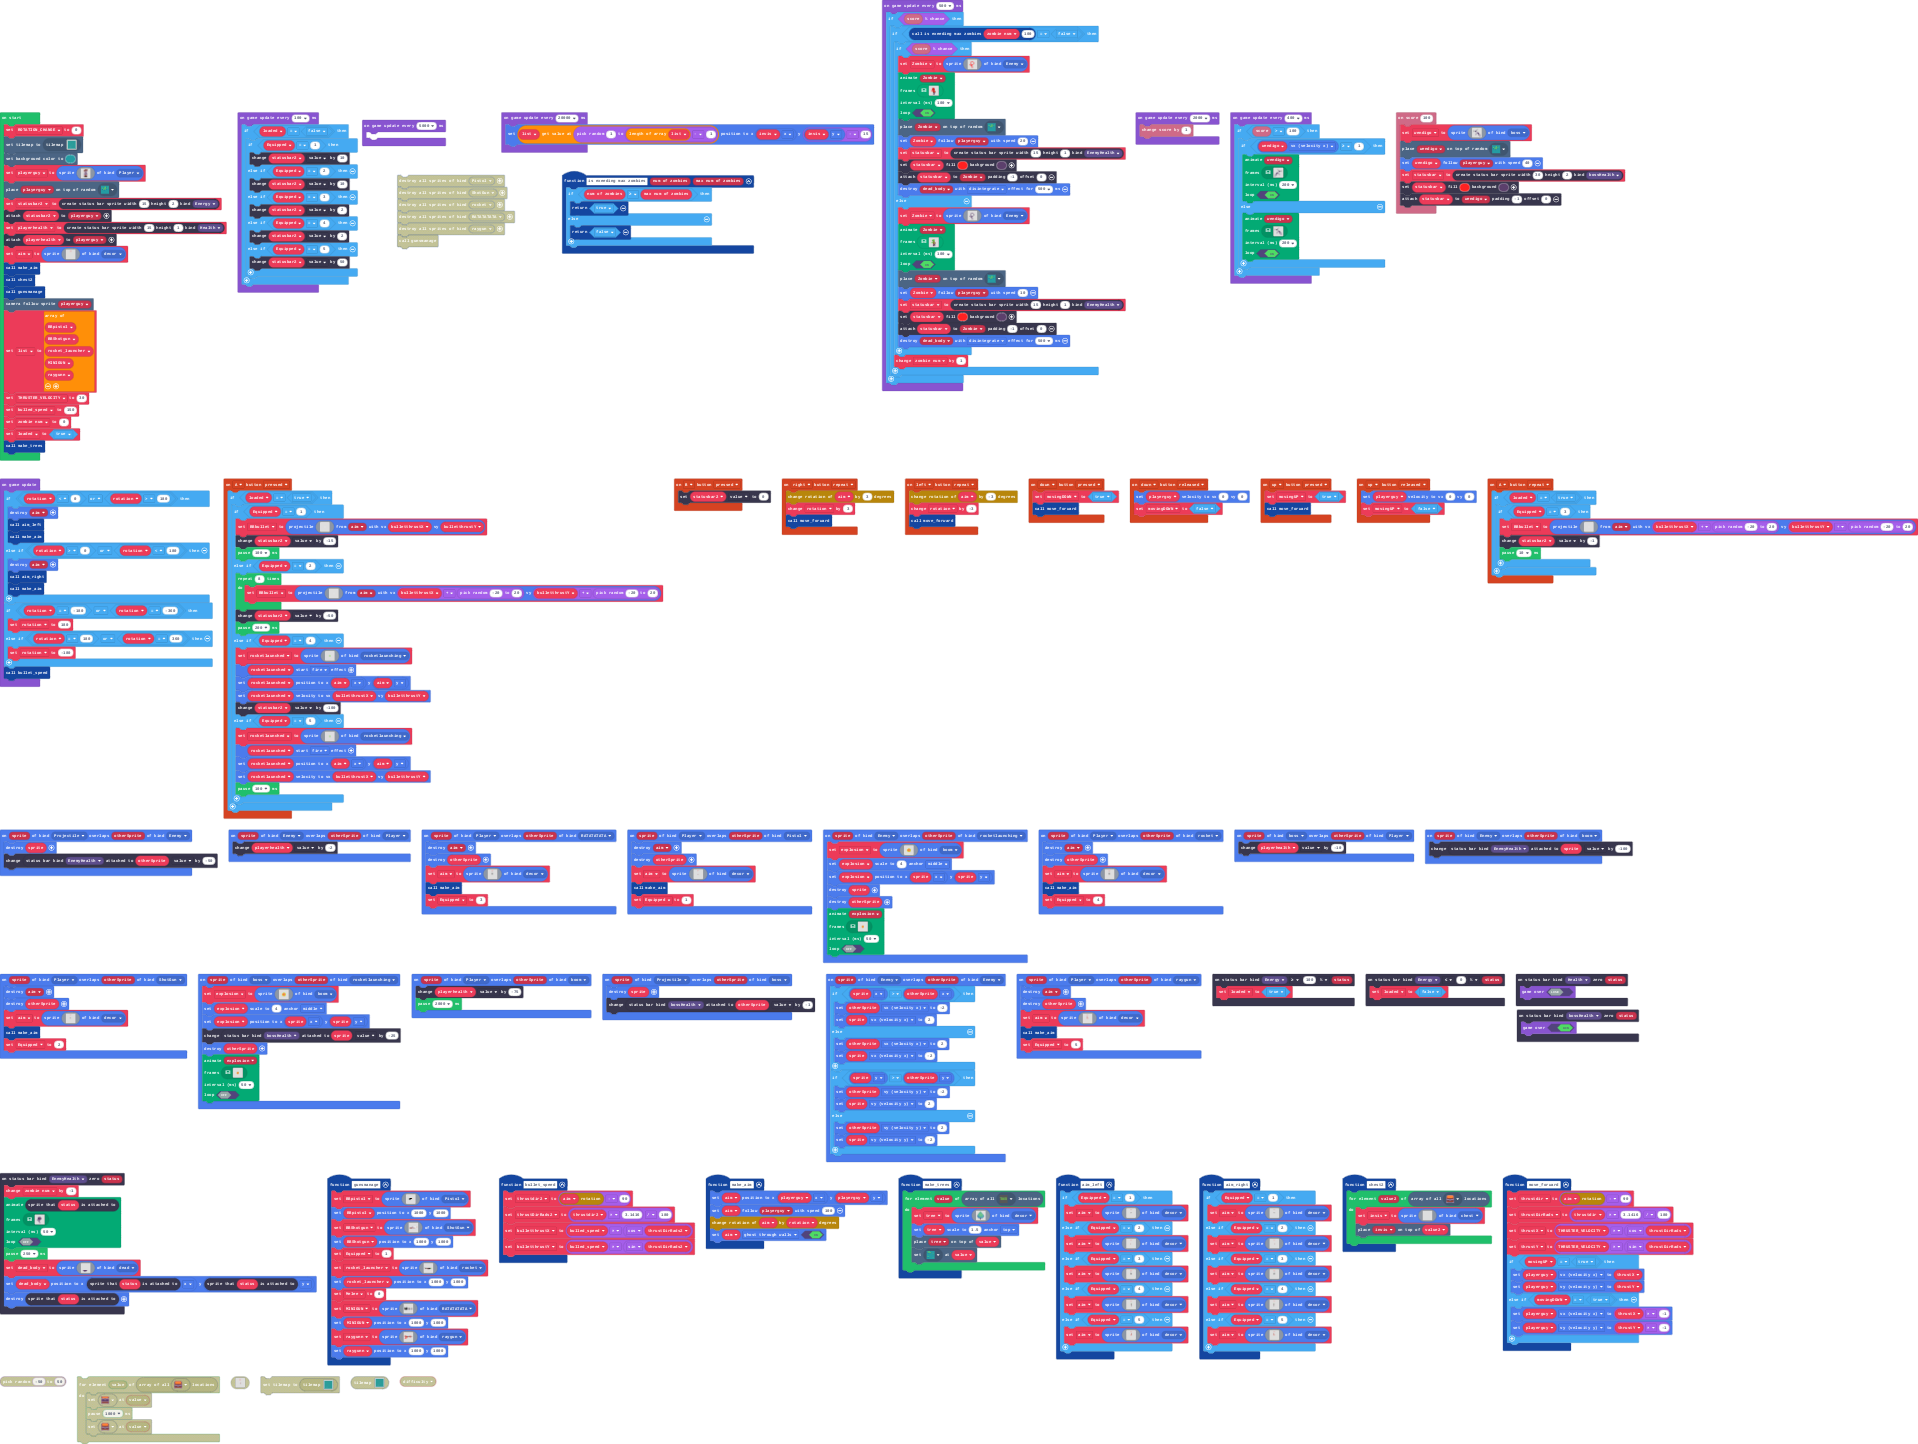
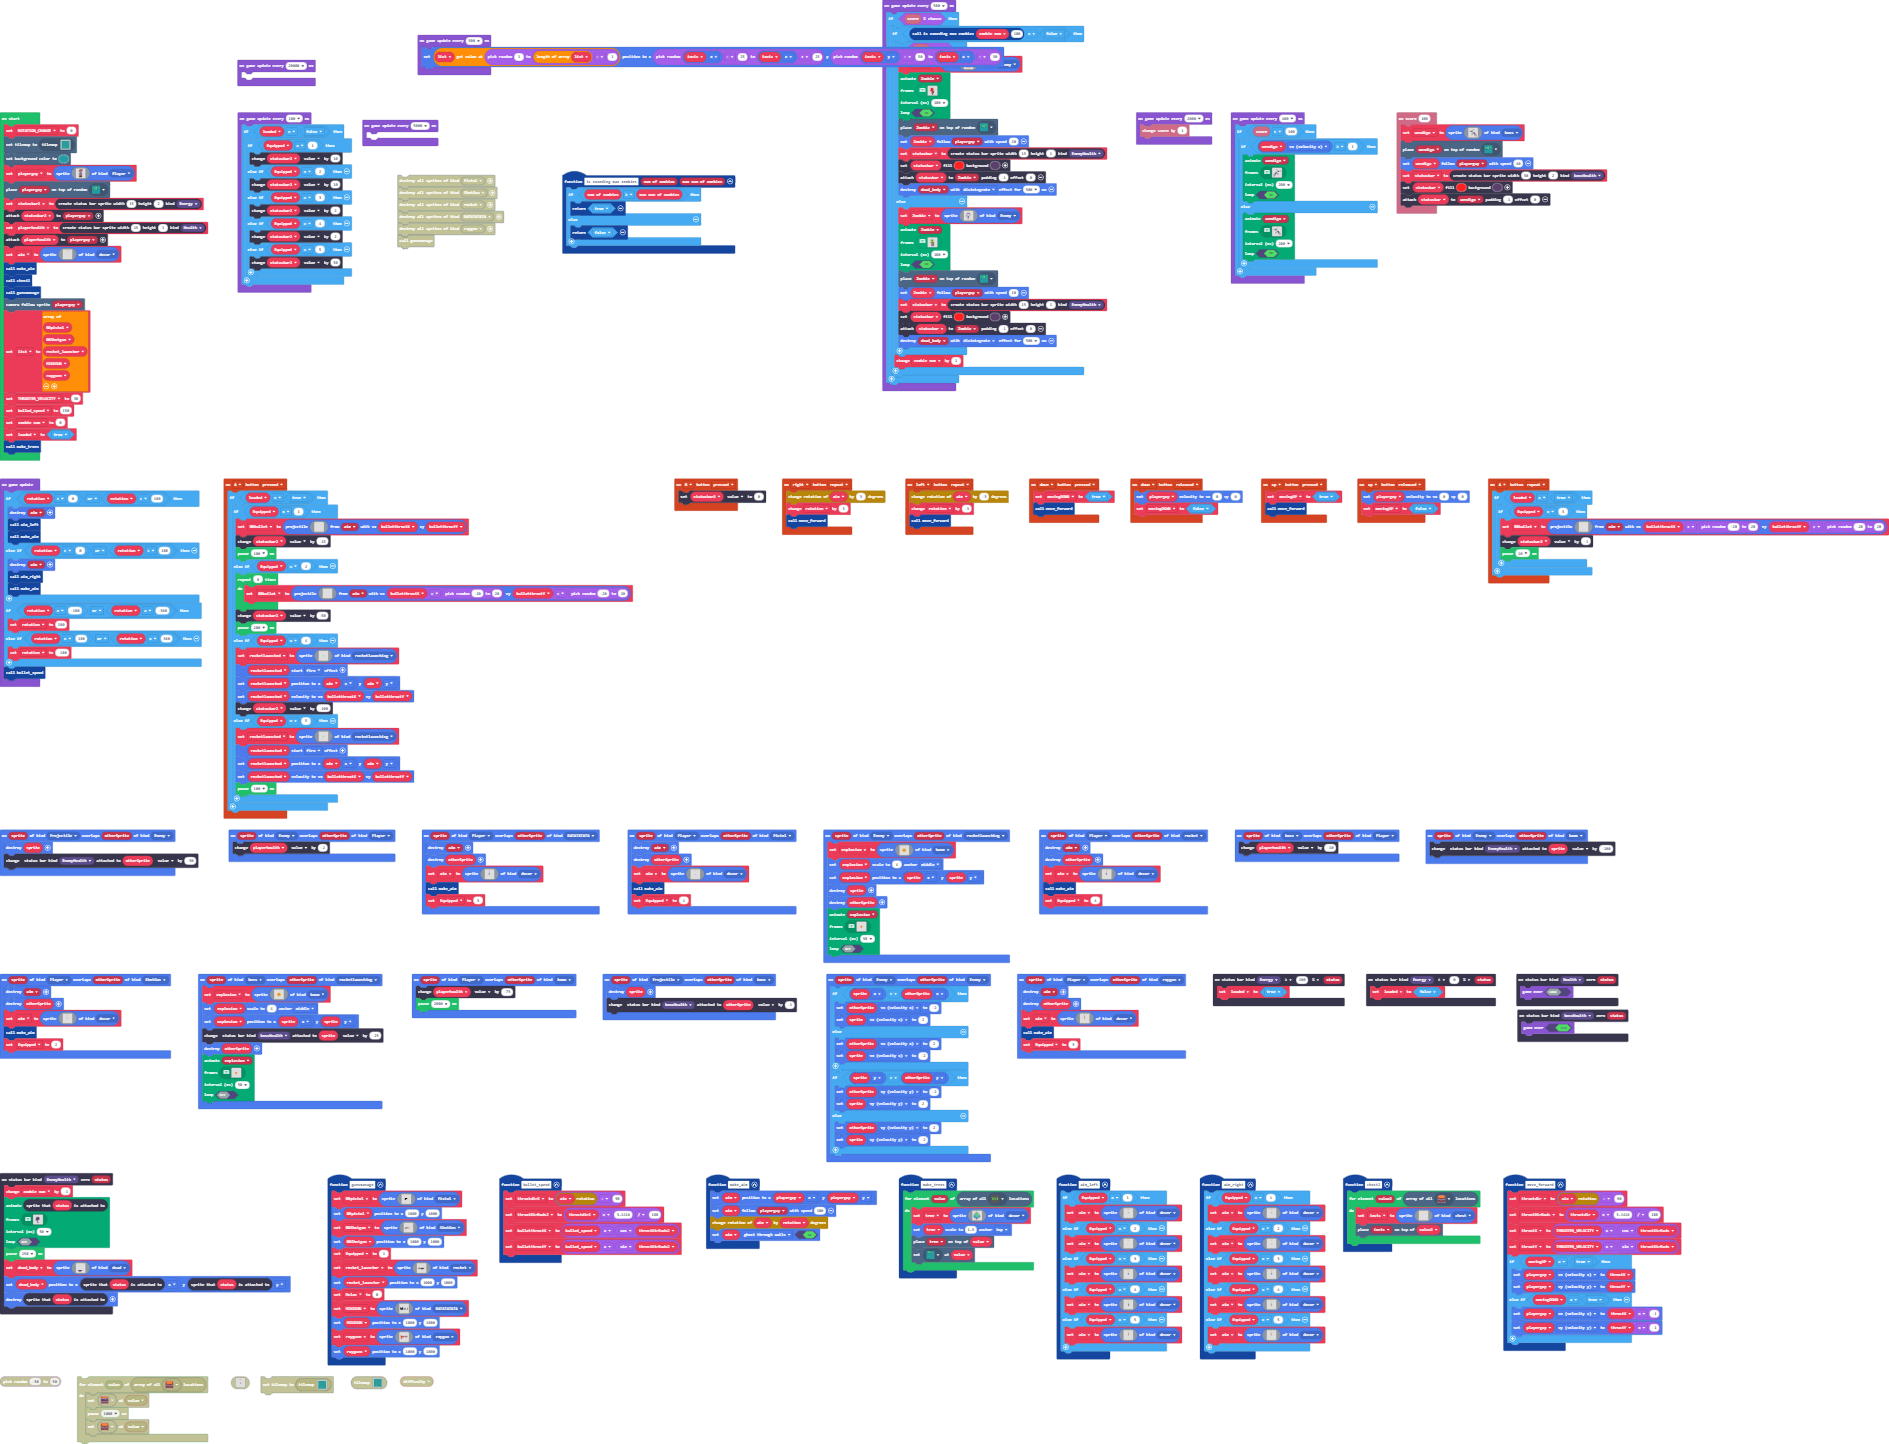
Update main.blocks, main.ts

diff --git a/main.ts b/main.ts
@@ -2629,6 +2629,9 @@ game.onUpdateInterval(500, function () {
         }
     }
 })
+game.onUpdateInterval(500, function () {
+    list[randint(1, list.length - 1)].setPosition(randint(invis.x - 25, invis.x + 25), randint(invis.y - 50, invis.x - 30))
+})
 game.onUpdateInterval(100, function () {
     if (loaded == false) {
         if (Equipped == 1) {
@@ -2645,5 +2648,5 @@ game.onUpdateInterval(100, function () {
     }
 })
 game.onUpdateInterval(20000, function () {
-    list[randint(1, list.length - 1)].setPosition(invis.x, invis.y - 15)
+	
 })
